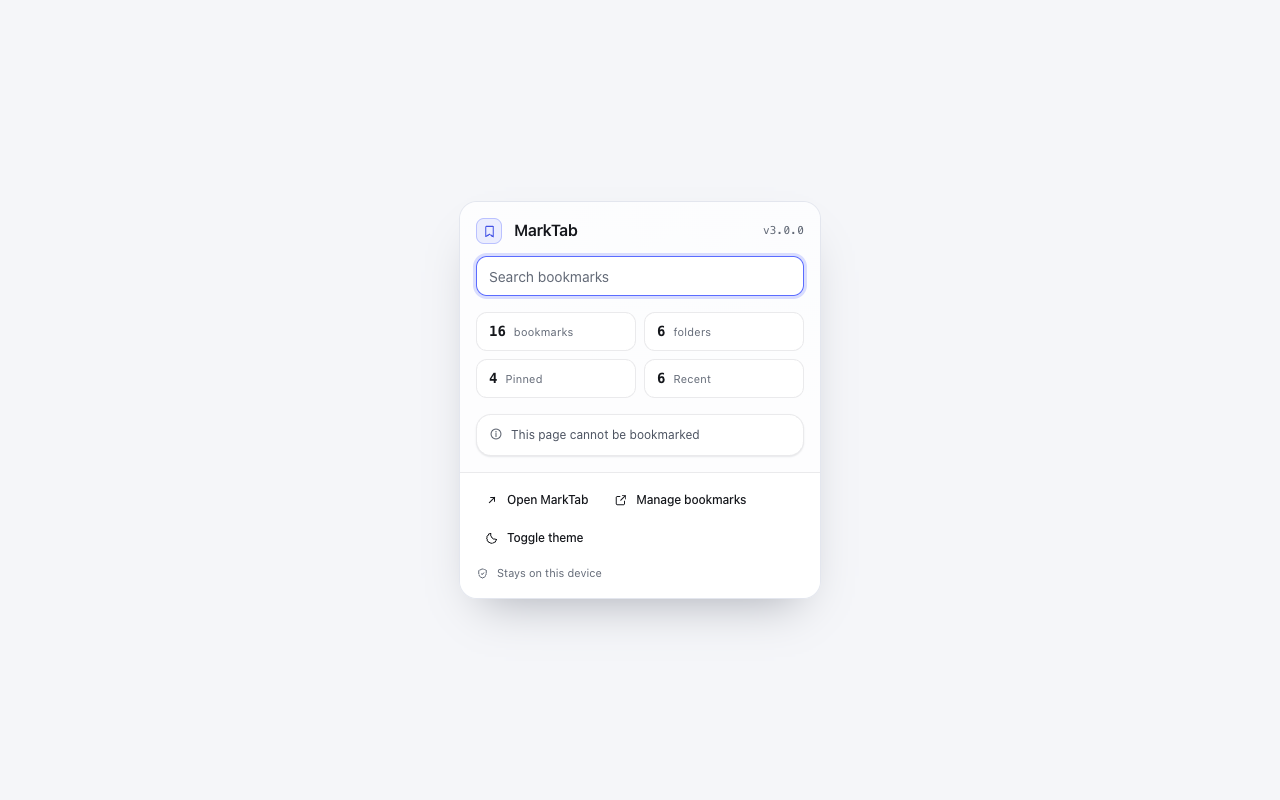
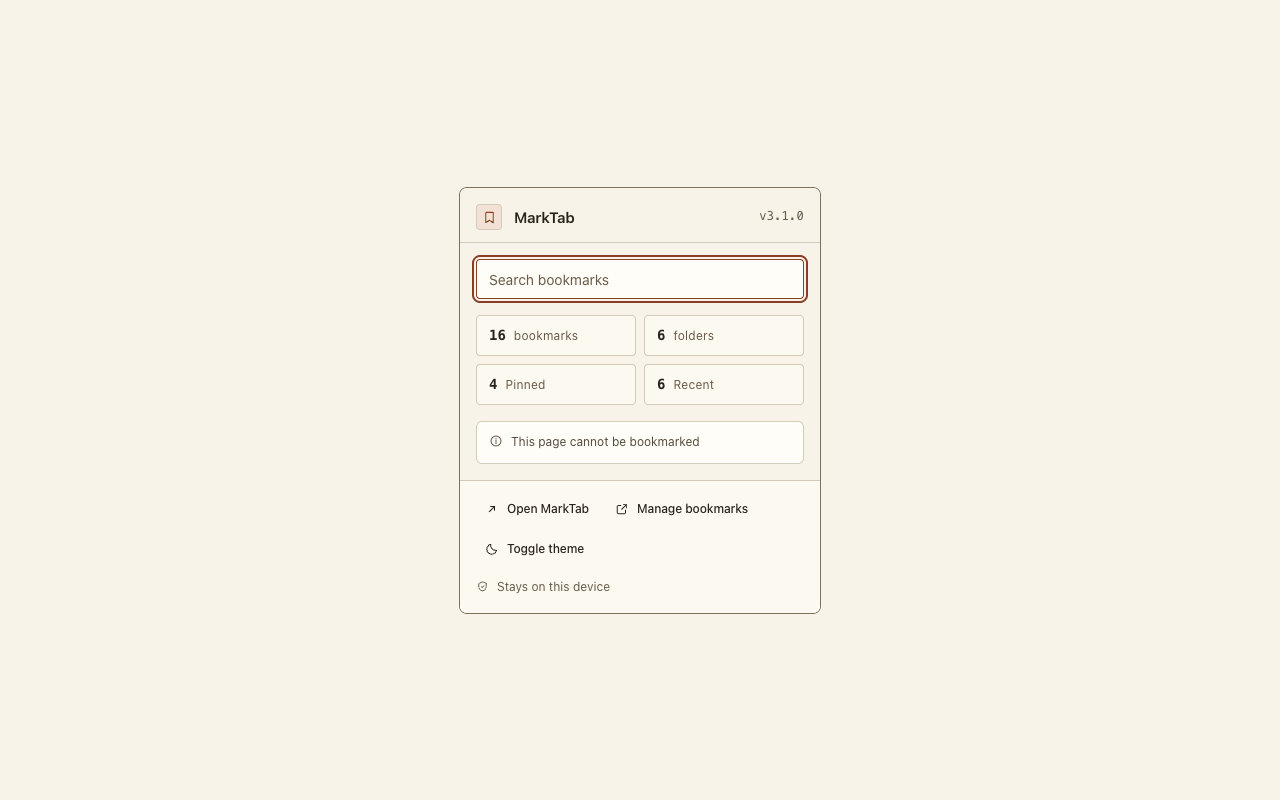
feat(release): prepare 3.1.0 with paper store assets
Read the paper tokens out of the built stylesheet so the composed popup
canvas and promo tile stop carrying the retired blue, gradients and shadow;
recapture all 22 store assets from the 3.1.0 build, bump the version, and
append the release-log entry with the gate results.

Checkpoint: 3Ba1j75pAtC9-mcMapyJh

diff --git a/cloudflare/marktab-home-worker.js b/cloudflare/marktab-home-worker.js
@@ -1,4 +1,4 @@
-const FALLBACK_VERSION = '2.1.1';
+const FALLBACK_VERSION = '3.1.0';
 const GITHUB_REPO = 'https://github.com/halunhaku/marktab';
 const GITHUB_API_LATEST_RELEASE = 'https://api.github.com/repos/halunhaku/marktab/releases/latest';
 const FALLBACK_RELEASE_URL = `${GITHUB_REPO}/releases/tag/v${FALLBACK_VERSION}`;

diff --git a/docs/release-log.md b/docs/release-log.md
@@ -204,3 +204,52 @@
     ([submission states](https://learn.microsoft.com/en-us/microsoft-edge/extensions/publish/submission-states)).
     The operational notes live in
     [CHROME_STORE_SUBMISSION.md](../CHROME_STORE_SUBMISSION.md#microsoft-edge--publishing-retired).
+
+## v3.1.0 — paper visuals and motion
+
+- Date: 2026-10-24
+- Status: release candidate, not tagged and not uploaded. The paper redesign is on `main`
+  (`a8336de`); this entry records the version bump, the recaptured store assets and the release
+  gate on the bumped tree. Tagging, the GitHub Release, the Chrome Web Store upload and the
+  landing-page `wrangler deploy` are still manual steps.
+- Validation (this tree, `npm run release:check`):
+  - `npm run typecheck` — passed.
+  - `npm test` — passed: 323 unit tests in 16 files (vitest), 85 script tests
+    (`node --test scripts/*.test.mjs`), no failures or skips.
+  - `npm run build` — passed; the Vite build still warns that `theme-boot.js` is a classic
+    script, which is deliberate (it runs before the module graph).
+  - `npm run validate` — `Release validation passed.` Runtime payload 239.1 KiB (JS 159.9 KiB,
+    CSS 55.1 KiB) across 18 files; five permissions, empty host/optional permissions, no content
+    scripts and no remote-code patterns.
+  - `npm run package` — `dist/marktab-3.1.0.zip`, 18 files, 244 792 bytes uncompressed,
[1 lines of base64/hex data omitted]
+  - `npm run test:e2e` — 40/40 passed in 54.8 s against the unpacked `dist/extension` in real
+    Chromium, including the `axe-core` audit of every surface in both themes and the 3 000-bookmark
+    guard (boot 53 ms, search 9 ms, no long task). `release:check` does not run it; CI does.
+- `npm run screenshots` recaptured all 22 `store-assets/` files (11 PNG + 11 JPEG) from this
+  build: seven 1280×800 surfaces in light and dark, the composed popup sheet at 1280×800 and the
+  440×280 promo tile. File names, formats and dimensions are unchanged, so
+  `SCREENSHOT_ASSETS` in the landing-page worker and `scripts/landing-screenshots.test.mjs`
+  needed no edit.
+- Version: `npm run bump -- 3.1.0` wrote `package.json`, `public/manifest.json`, `README.md`,
+  `CHROME_STORE_SUBMISSION.md` and the landing worker's `FALLBACK_VERSION` (which still said
+  `2.1.1`, so the landing page would have advertised a version two releases behind); the script
+  does not touch `package-lock.json`, so `npm install --package-lock-only` synced its root
+  version. Two manual follow-ups the script cannot do: the submission guide's headline said
+  3.0.0 and now says 3.1.0, and `public/manifest.json` was re-serialized with its `permissions`
+  array expanded — restored to one line so the manifest diff is the version field alone.
+- Notes:
+  - **The capture tool no longer carries a palette.** `scripts/capture-store-assets.mjs` reads
+    the paper tokens out of the built stylesheet (`dist/extension/assets/*.css`) and follows
+    `var()` aliases to their final values, so the composed popup canvas and the promo tile are
+    painted from `src/ui/styles/tokens.css` as shipped. The previous template hard-coded the
+    retired blue, two radial gradients and a drop shadow; all three are gone — the canvas is
+    `--canvas`, the popup sheet is separated by a `--border-1` hairline at `--radius-xl`, and the
+    tile's wordmark is the local serif. A token missing from the build now fails the run instead
+    of falling back to a stale colour.
+  - **Product code is untouched.** No `src/**`, `tests/**`, permission, manifest field (beyond
+    `version`), privacy or dependency change; `npm ci` reproduced the lock file.
+  - **Still manual:** `wrangler deploy` for `cloudflare/marktab-home-worker.js` (it currently
+    serves the previous version as its fallback), and the store upload of
+    `dist/marktab-3.1.0.zip`. The landing page reads its preview images from `main`, so the
+    recaptured screenshots only appear once this branch lands on `main`.

diff --git a/README.md b/README.md
@@ -13,7 +13,7 @@
   <code>Manifest V3</code>
   · <code>Chrome 114+</code>
   · <code>Preact 11</code>
-  · <code>v3.0.0</code>
+  · <code>v3.1.0</code>
 </p>
 
 ---
@@ -87,7 +87,7 @@ The build emits the whole extension to `dist/extension`. Then:
 4. Select the `dist/extension` folder — not the repository root, which contains TypeScript
    sources that no browser can load.
 
-For store installs, download `marktab-3.0.0.zip` from the GitHub release, unzip it to a
+For store installs, download `marktab-3.1.0.zip` from the GitHub release, unzip it to a
 permanent folder, and load that folder unpacked.
 
 ## Development
@@ -120,7 +120,7 @@ are files, not a served app.
 | `npm run release:check` | `typecheck && test && build && validate && package` — the full local gate. |
 | `npm run screenshots` | `node scripts/capture-store-assets.mjs` — recaptures `store-assets/` from the built extension. |
 | `npm run cws:publish -- <zip>` | Uploads the zip to the Chrome Web Store (credentials from env). |
-| `npm run bump -- 3.0.0` | Writes the new version into `package.json`, `public/manifest.json`, `README.md`, `CHROME_STORE_SUBMISSION.md` and `cloudflare/marktab-home-worker.js`. |
+| `npm run bump -- 3.1.0` | Writes the new version into `package.json`, `public/manifest.json`, `README.md`, `CHROME_STORE_SUBMISSION.md` and `cloudflare/marktab-home-worker.js`. |
 
 `npm run build` must run before `npm run validate`, `npm run package` or `npm run test:e2e`:
 all three consume `dist/extension`, and the validator fails fast with
@@ -239,14 +239,14 @@ A pushed `vX.Y.Z` tag is the release boundary; `package.json` and `public/manife
 already carry that version (`scripts/release-version.mjs` fails the run otherwise).
 
 ```bash
-npm run bump -- 3.0.0        # sync every version-bearing file
+npm run bump -- 3.1.0        # sync every version-bearing file
 npm run release:check        # typecheck → tests → build → validate → package
 git add -A && git commit -m "release: v3.0.0"
 git tag v3.0.0 && git push origin HEAD && git push origin v3.0.0
 ```
 
 `.github/workflows/release.yml` then checks out the tag, verifies the version, runs tests,
-builds, validates, packages `dist/marktab-3.0.0.zip` from `dist/extension` (sorted entries and
+builds, validates, packages `dist/marktab-3.1.0.zip` from `dist/extension` (sorted entries and
 a fixed timestamp, so the archive is reproducible and a store diff is meaningful), creates a
 **draft** GitHub release, submits to the Chrome Web Store, and only then publishes the draft. A
 failure at the store step leaves the draft unpublished; recover with `workflow_dispatch` using

diff --git a/CHROME_STORE_SUBMISSION.md b/CHROME_STORE_SUBMISSION.md
@@ -1,6 +1,6 @@
 # MarkTab — Chrome Web Store submission
 
-Applies to **MarkTab 3.0.0** (`package.json` version, mirrored in `public/manifest.json`).
+Applies to **MarkTab 3.1.0** (`package.json` version, mirrored in `public/manifest.json`).
 The Chrome Web Store is the only store this extension ships to; see
 [Microsoft Edge — publishing retired](#microsoft-edge--publishing-retired).
 
@@ -129,7 +129,7 @@ MarkTab does not need.
 
 ## Release package
 
-`npm run package` (`scripts/package-release.mjs`) produces **`dist/marktab-3.0.0.zip`**, and the
+`npm run package` (`scripts/package-release.mjs`) produces **`dist/marktab-3.1.0.zip`**, and the
 ZIP contains exactly the contents of `dist/extension` — the same tree Playwright loads and the
 same tree `npm run validate` checks:
 
@@ -165,7 +165,7 @@ only ever zips `dist/extension`, so the way to keep them out is to keep them out
 
 ## Reviewer instructions (how to test)
 
-1. Unzip `marktab-3.0.0.zip` to a permanent folder.
+1. Unzip `marktab-3.1.0.zip` to a permanent folder.
 2. Open `chrome://extensions/`, enable **Developer mode**, click **Load unpacked**, and select
    that folder (the one containing `manifest.json`).
 3. Open a **new tab** — MarkTab replaces the new tab page (there is no options page; all
@@ -303,7 +303,7 @@ because nothing is published there any more. The `EDGE_PRODUCT_ID`, `EDGE_CLIENT
 
 - [ ] `npm run bump -- 3.0.0` has run (version agrees across `package.json`, `public/manifest.json`, `README.md` and this file).
 - [ ] `npm run release:check` passes locally (typecheck → test → build → validate → package).
-- [ ] `dist/marktab-3.0.0.zip` contains only the files listed under **Release package** above.
+- [ ] `dist/marktab-3.1.0.zip` contains only the files listed under **Release package** above.
 - [ ] The permissions table in `README.md`, `PRIVACY_POLICY.md`, `AGENTS.md` and this file still names exactly five permissions.
 - [ ] Screenshots recaptured from the 3.0.0 build (`store-assets/` is currently v2-era).
 - [ ] Listing claims match the extension's behaviour.
